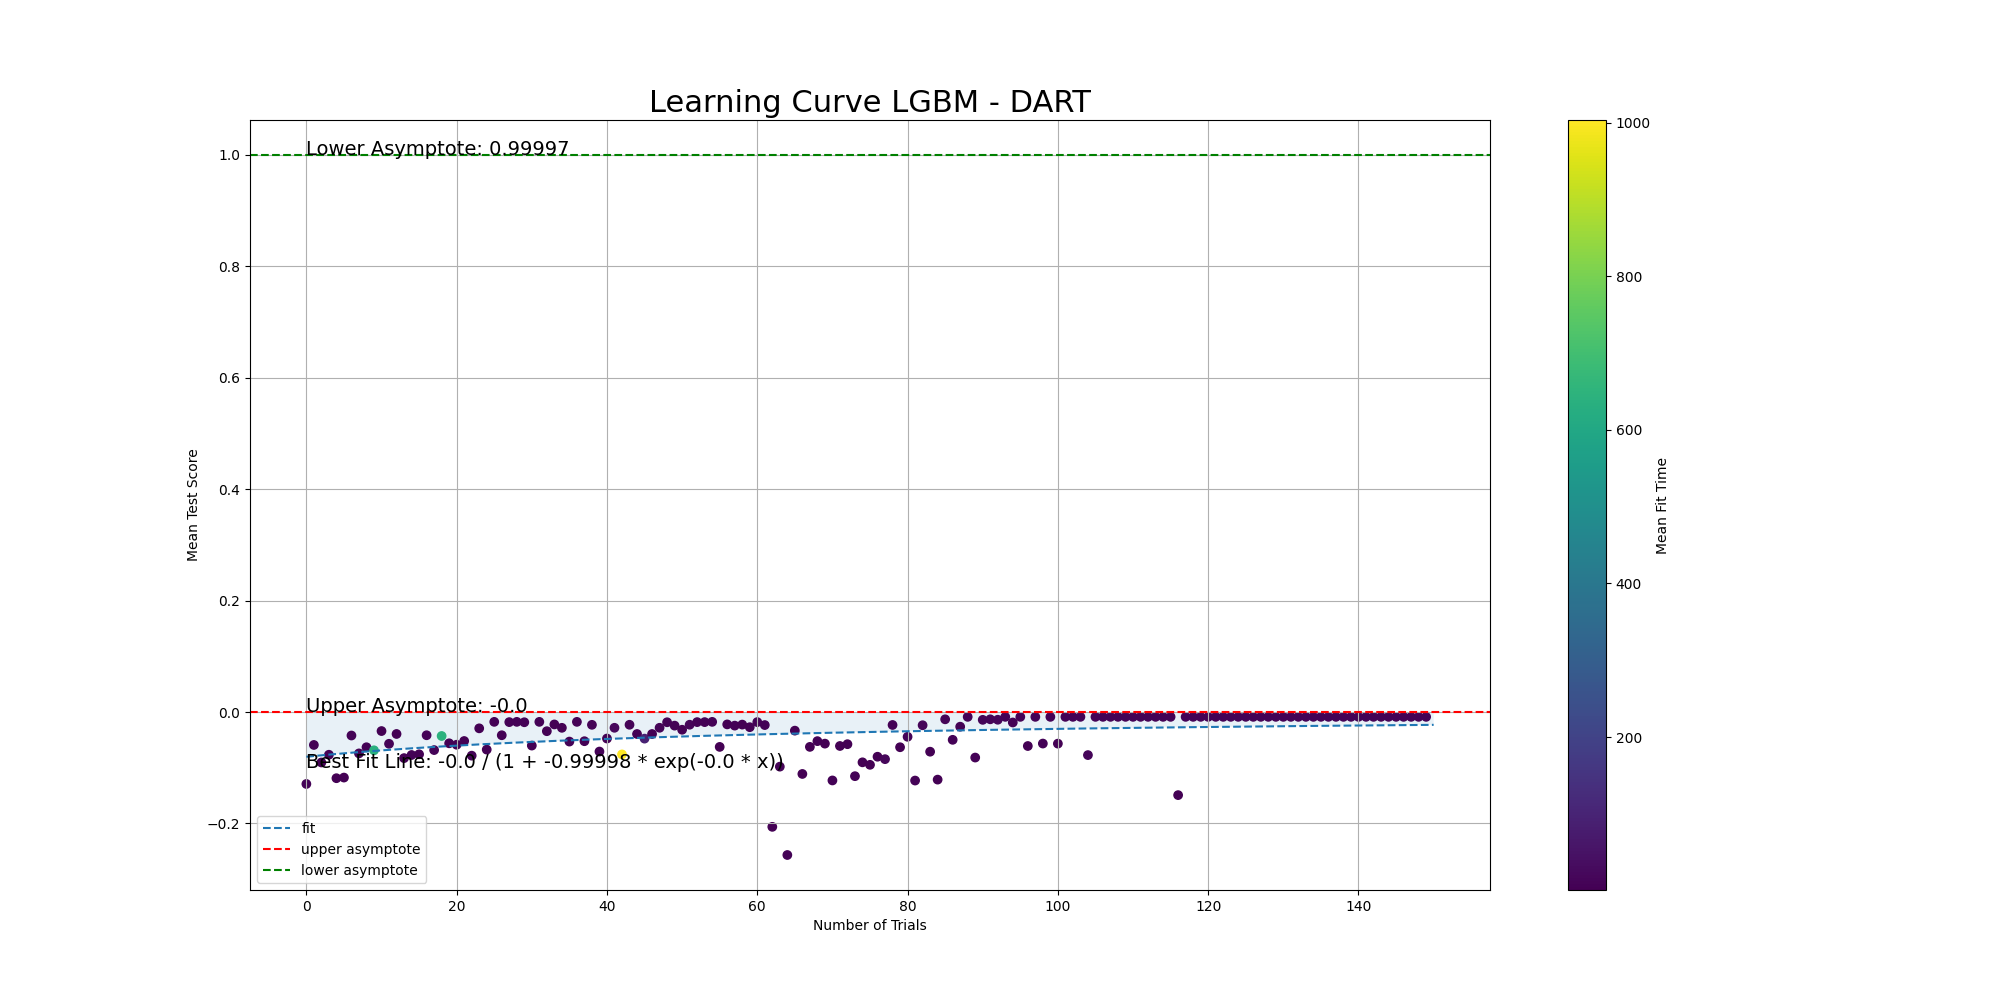
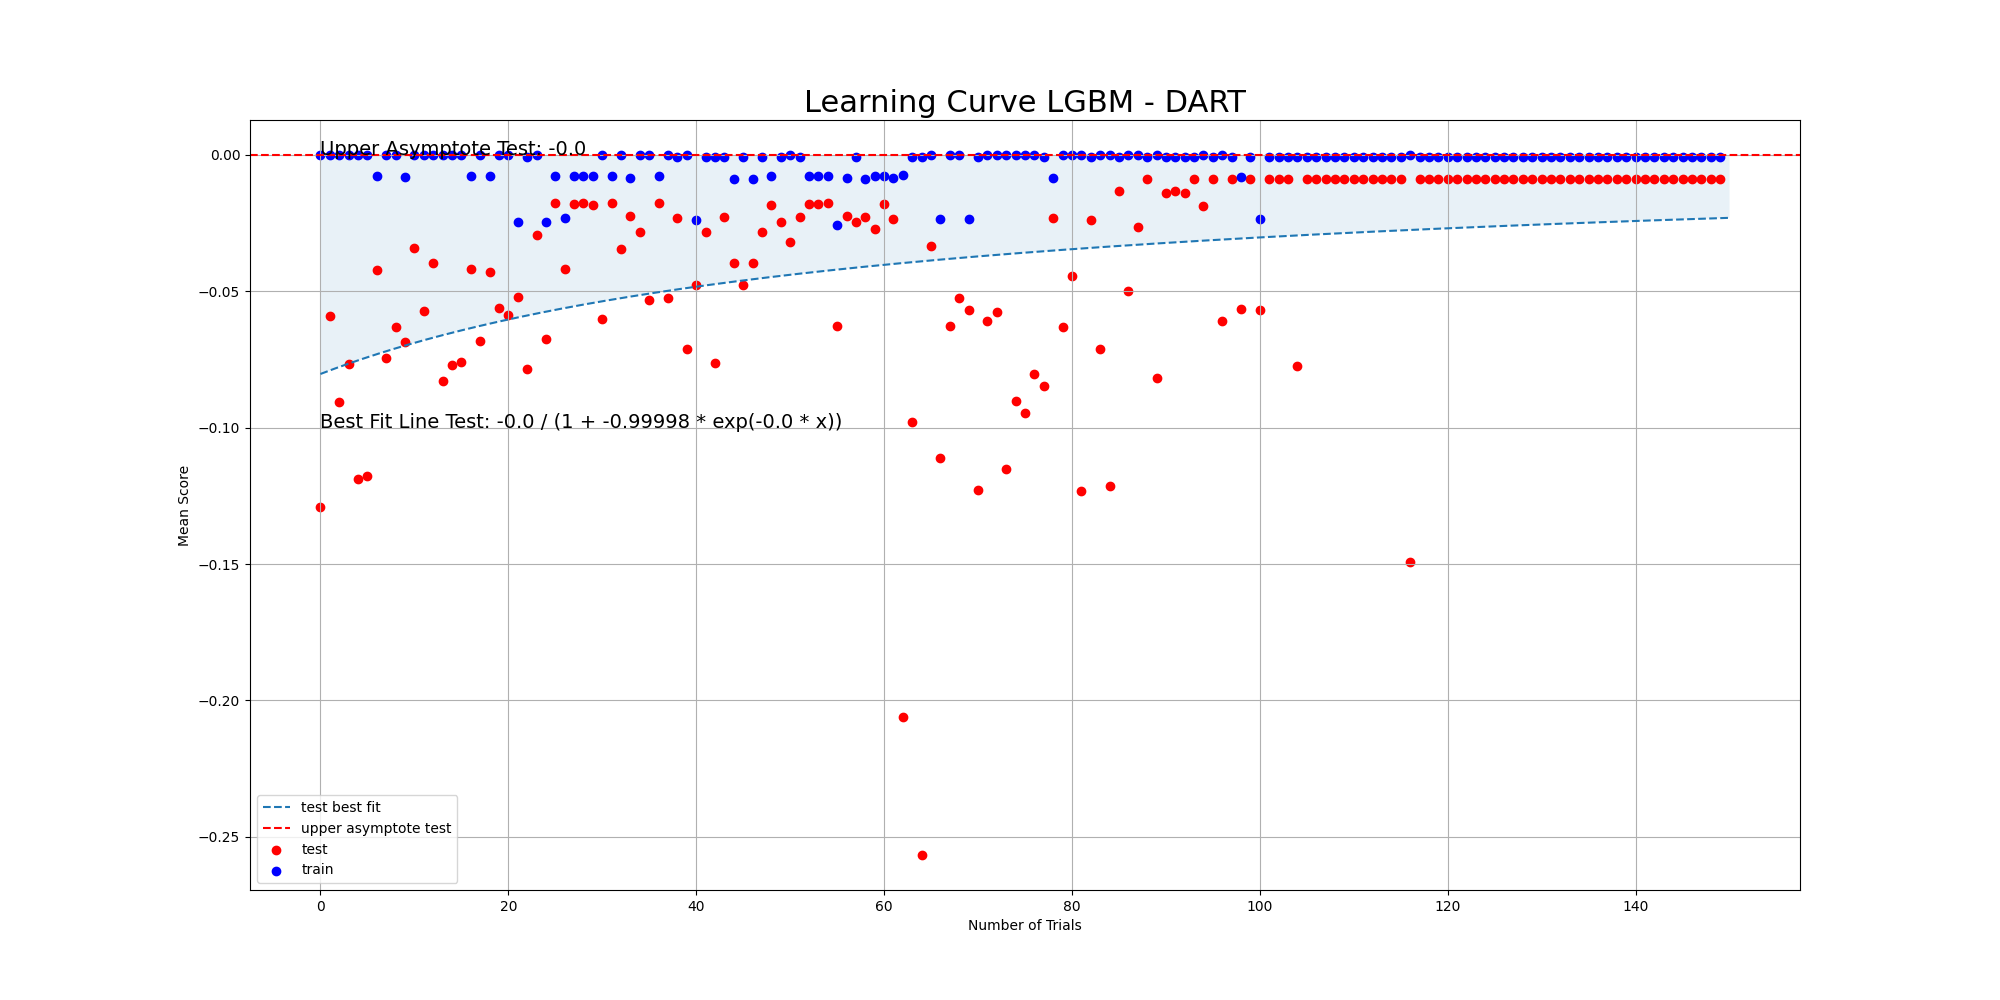
graphing

diff --git a/mtf/graph.py b/mtf/graph.py
@@ -86,6 +86,37 @@ def generate_rank_graphs(data, output_location):
                                metric, output, output_location)
 
 
+def graph_model_metric(models, means, stdevs, metric, output, output_location):
+    plt.figure(figsize=(20, 10))
+    plt.rcParams.update({'axes.titlesize': 22})
+    # bold the title
+    # bold the x and y labels
+    plt.rcParams.update({'axes.labelweight': 'bold'})
+    plt.rcParams.update({'axes.titleweight': 'bold'})
+    # increase size of title
+    plt.title(f'{output} - {metric}')
+    # make sure y label is not cut off
+    plt.barh(models, means, xerr=stdevs)
+    # increase size of xerr bar
+    plt.errorbar(means, models, xerr=stdevs, fmt='o',
+                 ecolor='black', elinewidth=2, capsize=4)
+    plt.xlabel(metric)
+    plt.ylabel('Model')
+    # text labels
+    for index, value in enumerate(means):
+        # check if positive or negative
+        # increase the text size
+        plt.text(value, index + 0.2, str(round(value, 5)), fontsize=14)
+
+    plt.grid()
+    # create the folder if it doesn't exists
+    if not os.path.exists(os.path.join(output_location, 'rankings', output)):
+        os.makedirs(os.path.join(output_location, 'rankings', output))
+    plt.savefig(os.path.join(
+        output_location, 'rankings', output, f'{output}_{metric}.png'))
+    plt.clf()
+
+
 def generate_learning_curve(results_folder, output_location):
     # loop through trials in output folder
     subfolders = [f.path for f in os.scandir(
@@ -119,44 +150,52 @@ def graph_learning_curve(file_title, data, output_location):
     plt.rcParams.update({'axes.titlesize': 22})
 
     x_axis = np.arange(len(data['mean_test_score']))
-    y_axis = data['mean_test_score']
+    y_axis_test = data['mean_test_score']
+    y_axis_train = data['mean_train_score']
 
     # graph the learning Curve logistic regression
-    popt, pcov = curve_fit(logistic_objective, np.arange(len(y_axis)), y_axis)
+    popt_test, pcov_test = curve_fit(
+        logistic_objective, np.arange(len(y_axis_test)), y_axis_test)
 
-    x_line = np.linspace(0, len(y_axis), 1000)
-    y_line = logistic_objective(x_line, *popt)
+    # popt_train, pcov_train = curve_fit(
+    #     logistic_objective, np.arange(len(y_axis_train)), y_axis_train)
+    #
+    x_line_test = np.linspace(0, len(y_axis_test), 1000)
+    y_line_test = logistic_objective(x_line_test, *popt_test)
+
+    x_line_train = np.linspace(0, len(y_axis_train), 1000)
+    # y_line_train = logistic_objective(x_line_train, *popt_train)
 
     # get upper asymptote
-    upper_asymptote = popt[2]
+    upper_asymptote_test = popt_test[2]
+    # upper_asymptote_train = popt_train[2]
 
-    # get lower asymptote
-    lower_asymptote = popt[2] - popt[0]
-
-    plt.plot(x_line, y_line, '--', label='fit')
-    plt.fill_between(x_line, y_line, 0, alpha=0.1)
+    plt.plot(x_line_test, y_line_test, '--', label='test best fit')
+    plt.fill_between(x_line_test, y_line_test, 0, alpha=0.1)
     # text for the best fit line equation
-    plt.text(0, upper_asymptote - 0.1,
-             f'Best Fit Line: {round(popt[2], 5)} / (1 + {round(popt[0], 5)} * exp(-{round(popt[1], 5)} * x))', fontsize=14)
+    plt.text(0, upper_asymptote_test - 0.1,
+             f'Best Fit Line Test: {round(popt_test[2], 5)} / (1 + {round(popt_test[0], 5)} * exp(-{round(popt_test[1], 5)} * x))', fontsize=14)
 
+    # plt.plot(x_line_train, y_line_train, '--', label='train best fit')
+    # plt.fill_between(x_line_train, y_line_train, 0, alpha=0.1)
+    # # text for the best fit line equation
+    # plt.text(0, upper_asymptote_train - 0.1,
+    #          f'Best Fit Line Train: {round(popt_train[2], 5)} / (1 + {round(popt_train[0], 5)} * exp(-{round(popt_train[1], 5)} * x))', fontsize=14)
+    #
     # plot the upper upper_asymptote
-    plt.axhline(y=upper_asymptote, color='r',
-                linestyle='--', label='upper asymptote')
-    plt.axhline(y=lower_asymptote, color='g',
-                linestyle='--', label='lower asymptote')
-
+    plt.axhline(y=upper_asymptote_test, color='r',
+                linestyle='--', label='upper asymptote test')
+    # plt.axhline(y=upper_asymptote_train, color='r',
+    #             linestyle='--', label='upper asymptote train')
     # text labels for the upper and lower asymptote equation
-    plt.text(0, upper_asymptote,
-             f'Upper Asymptote: {round(upper_asymptote, 5)}', fontsize=14)
-    plt.text(0, lower_asymptote,
-             f'Lower Asymptote: {round(lower_asymptote, 5)}', fontsize=14)
-
-    plt.scatter(x_axis, y_axis, c=data['mean_fit_time'], cmap='viridis')
-    plt.colorbar(label='Mean Fit Time')
+    plt.text(0, upper_asymptote_test,
+             f'Upper Asymptote Test: {round(upper_asymptote_test, 5)}', fontsize=14)
+    plt.scatter(x_axis, y_axis_test, label='test', color='r', )
+    plt.scatter(x_axis, y_axis_train, label='train', color='b')
     plt.title(
         f'Learning Curve {file_title.split("_")[0]} - {file_title.split("_")[1]}')
     plt.xlabel('Number of Trials')
-    plt.ylabel('Mean Test Score')
+    plt.ylabel('Mean Score')
     plt.legend()
     plt.grid()
     print(f'{output_location}/{file_title}.png')
@@ -165,34 +204,6 @@ def graph_learning_curve(file_title, data, output_location):
         os.makedirs(output_location)
     plt.savefig(os.path.join(output_location,
                 f'{file_title}.png'))
-
-
-def graph_model_metric(models, means, stdevs, metric, output, output_location):
-    plt.figure(figsize=(20, 10))
-    plt.rcParams.update({'axes.titlesize': 22})
-    # bold the title
-    # bold the x and y labels
-    plt.rcParams.update({'axes.labelweight': 'bold'})
-    plt.rcParams.update({'axes.titleweight': 'bold'})
-    # increase size of title
-    plt.title(f'{output} - {metric}')
-    # make sure y label is not cut off
-    plt.barh(models, means, xerr=stdevs)
-    # increase size of xerr bar
-    plt.errorbar(means, models, xerr=stdevs, fmt='o',
-                 ecolor='black', elinewidth=2, capsize=4)
-    plt.xlabel(metric)
-    plt.ylabel('Model')
-    # text labels
-    for index, value in enumerate(means):
-        # check if positive or negative
-        # increase the text size
-        plt.text(value, index + 0.2, str(round(value, 5)), fontsize=14)
-
-    plt.grid()
-    plt.savefig(os.path.join(
-        output_location, 'rankings', output, f'{output}_{metric}.png'))
-    plt.clf()
 
 
 if args.rankings:
